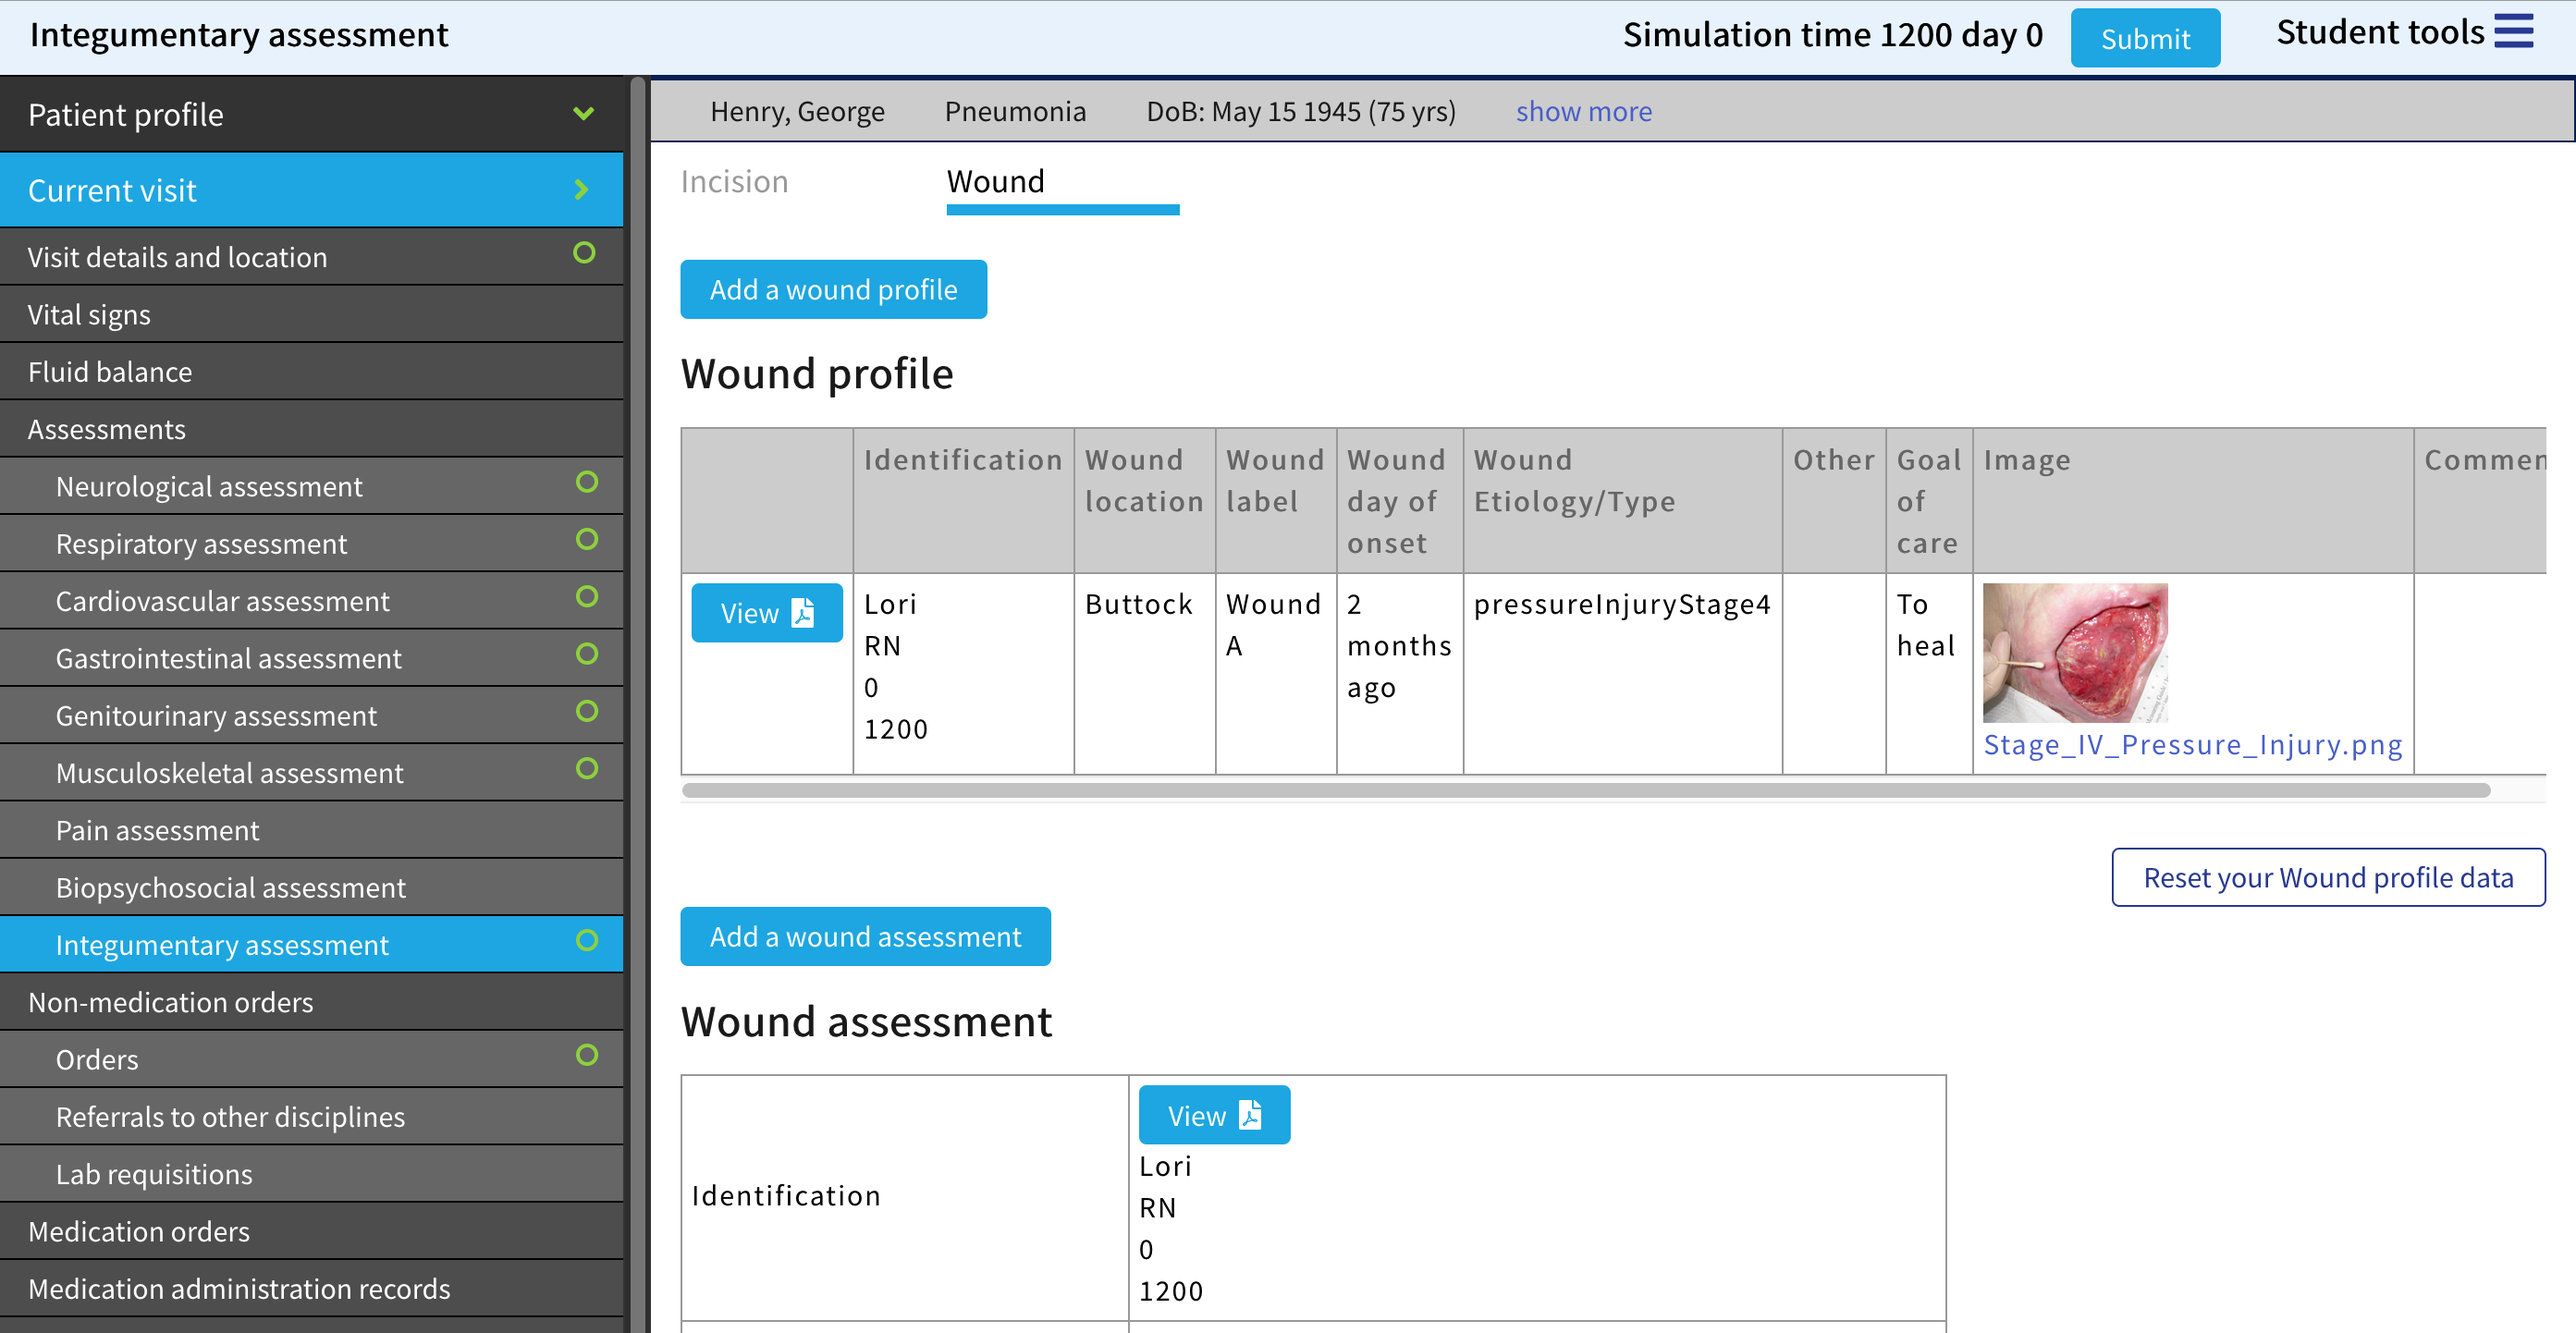
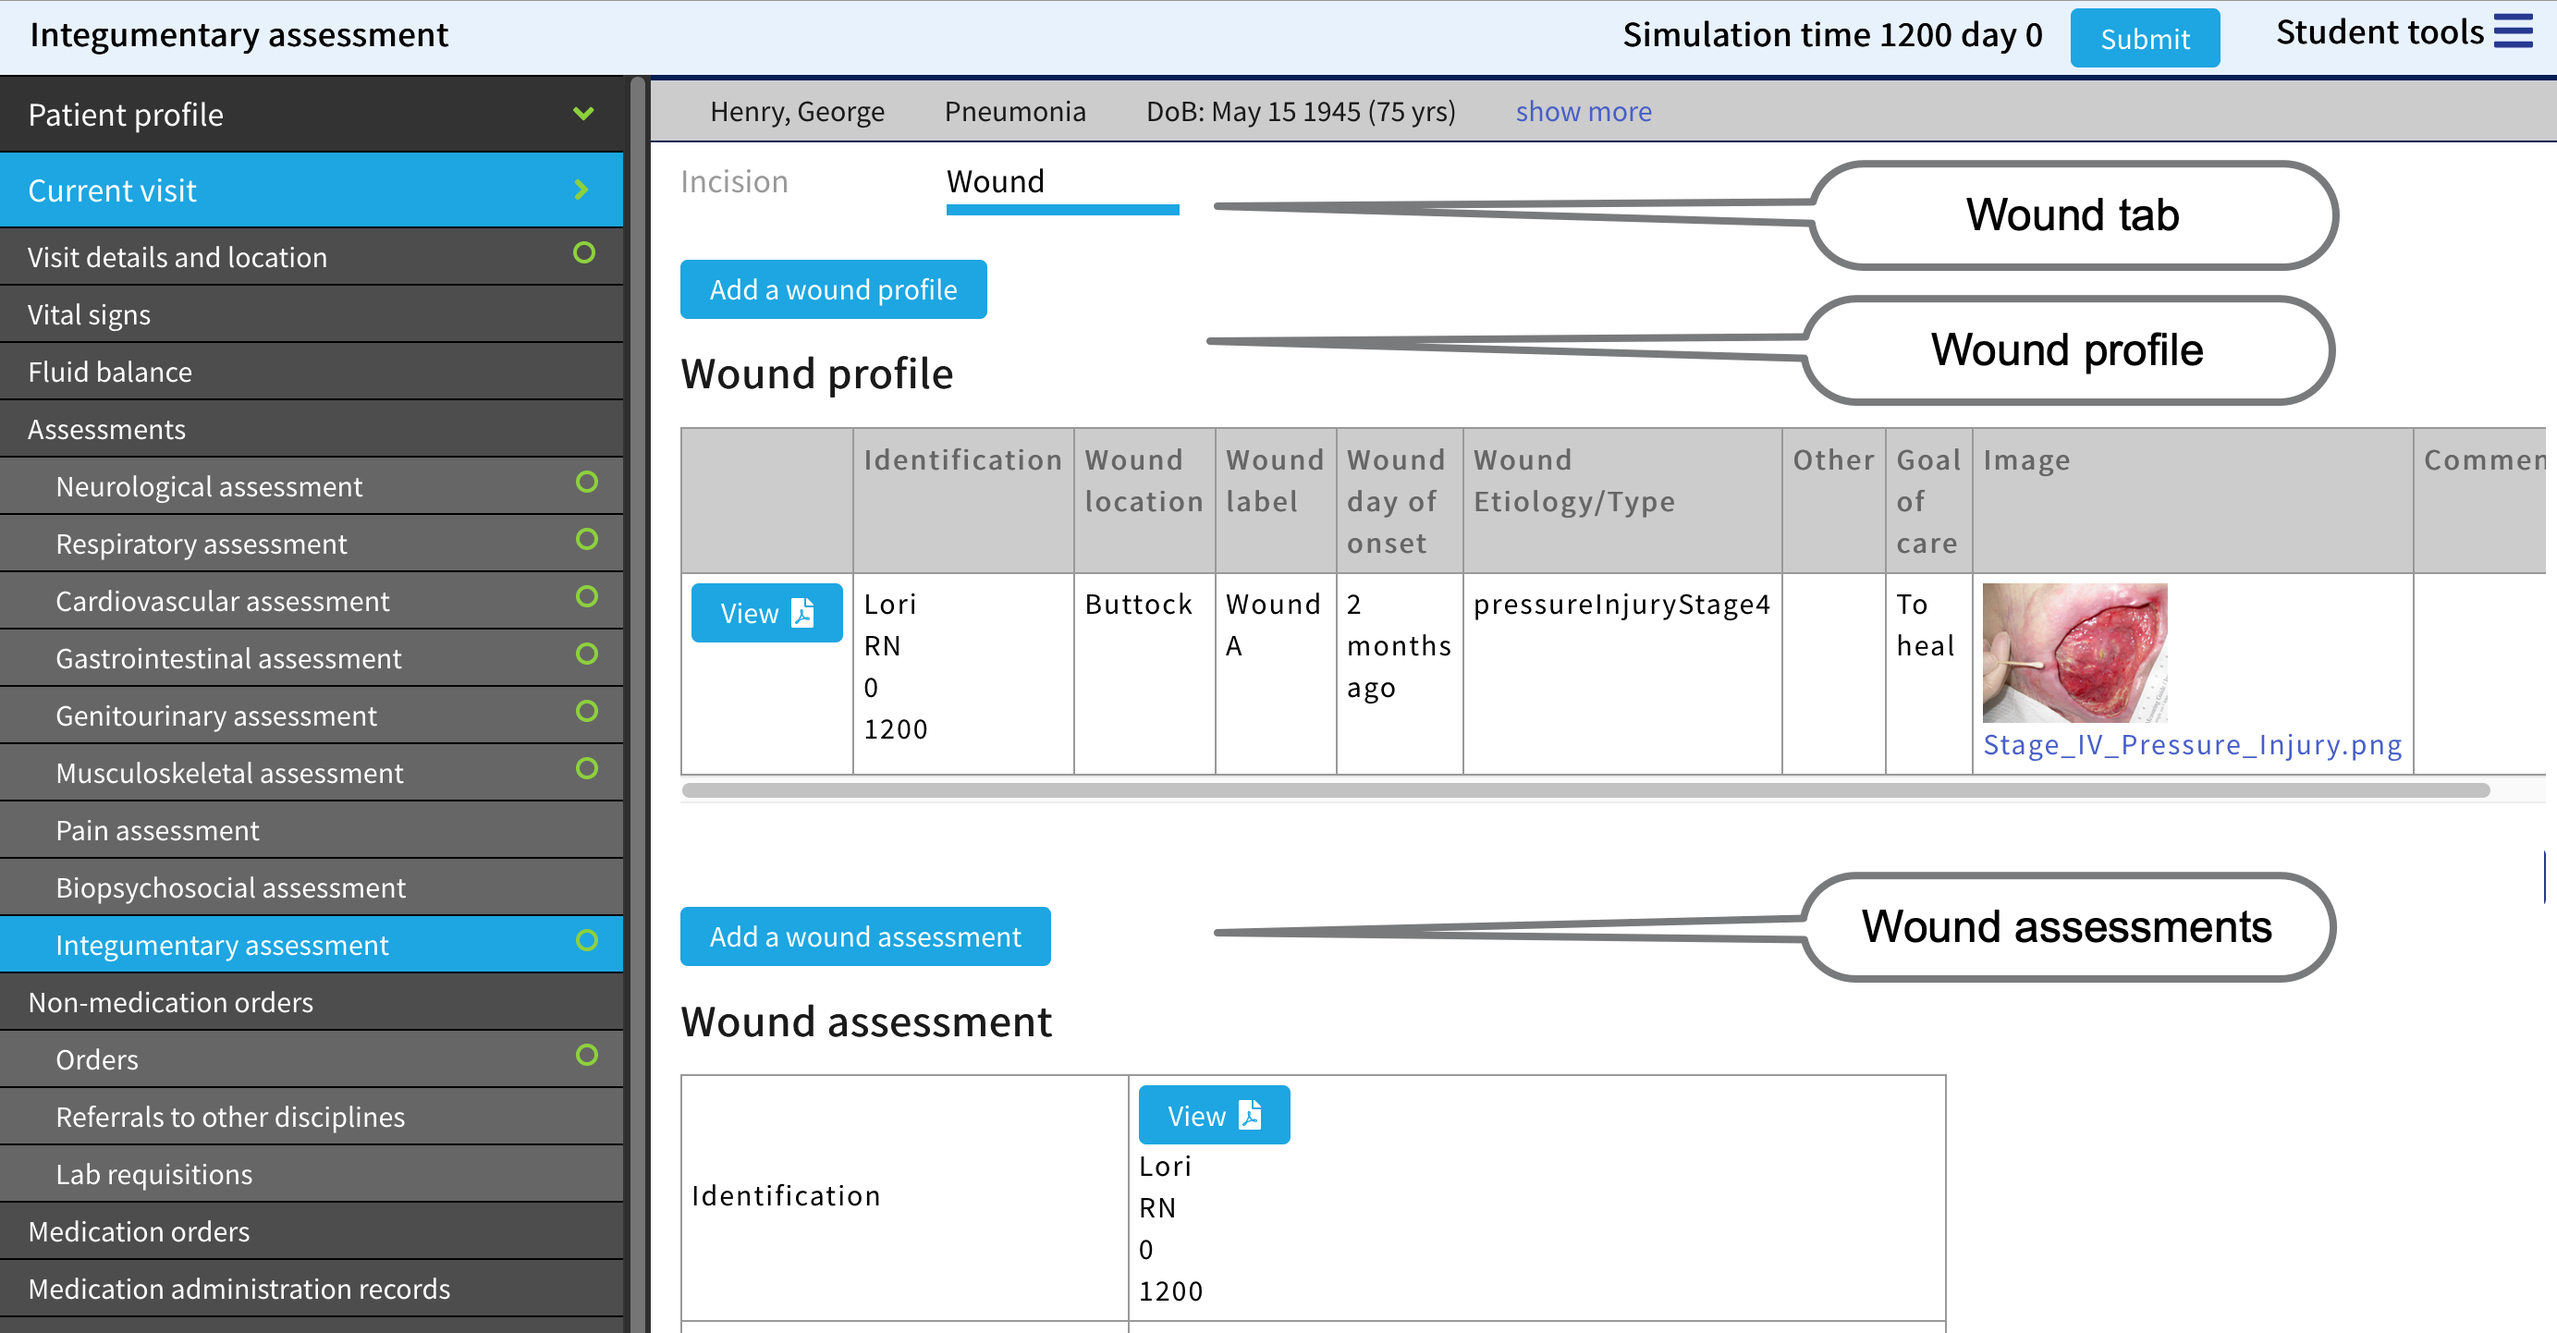
collaboration link to wound case study

diff --git a/client/src/outside/views/AboutCollaborations.vue b/client/src/outside/views/AboutCollaborations.vue
@@ -24,7 +24,9 @@
     p.
       In 2020, the EdEHR team worked with members from the BC Provincial Nursing Skin and Wound Committee, on the development and evaluation of a standardized skin and wound assessment module. The completed module mirrors the nursing documentation requirements used across all BC Provincial Health Authorities.
     p The project included the development of a sample case study and with sample assignment that illustrates best practices and encourages documentation that considers what other Health Care Professionals need to know.
-    a(href='/ehr/current/assessments/integumentary-assessment')
+    p.
+      Click this image to see the sample case study in the EHR. Be sure to select the Wound tab!
+    a(href='/ehr/current/assessments/integumentary-assessment?demoOnlyKey=wound')
       img(src='/assets/images/woundCareModule.png', alt='woundCareModule', width='50%')
 
     hr
